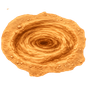
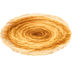
Updated assets and moved cactus darts player a little to the right

diff --git a/src/levels/06-cactus-darts/CactusDartsScene.ts b/src/levels/06-cactus-darts/CactusDartsScene.ts
@@ -148,7 +148,7 @@ export class CactusDartsScene extends Phaser.Scene {
   private setupPlayer(): void {
     const { width, height } = this.scale;
     const playerY = height - CFG.floorPadding - CFG.playerSize / 2;
-    this.player = this.physics.add.sprite(width * 0.14, playerY, 'character');
+    this.player = this.physics.add.sprite(width * 0.1428, playerY, 'character');
     this.player.setScale(CFG.playerSize / this.player.height);
     this.player.setFlipX(false);
     const body = this.player.body as Phaser.Physics.Arcade.Body;